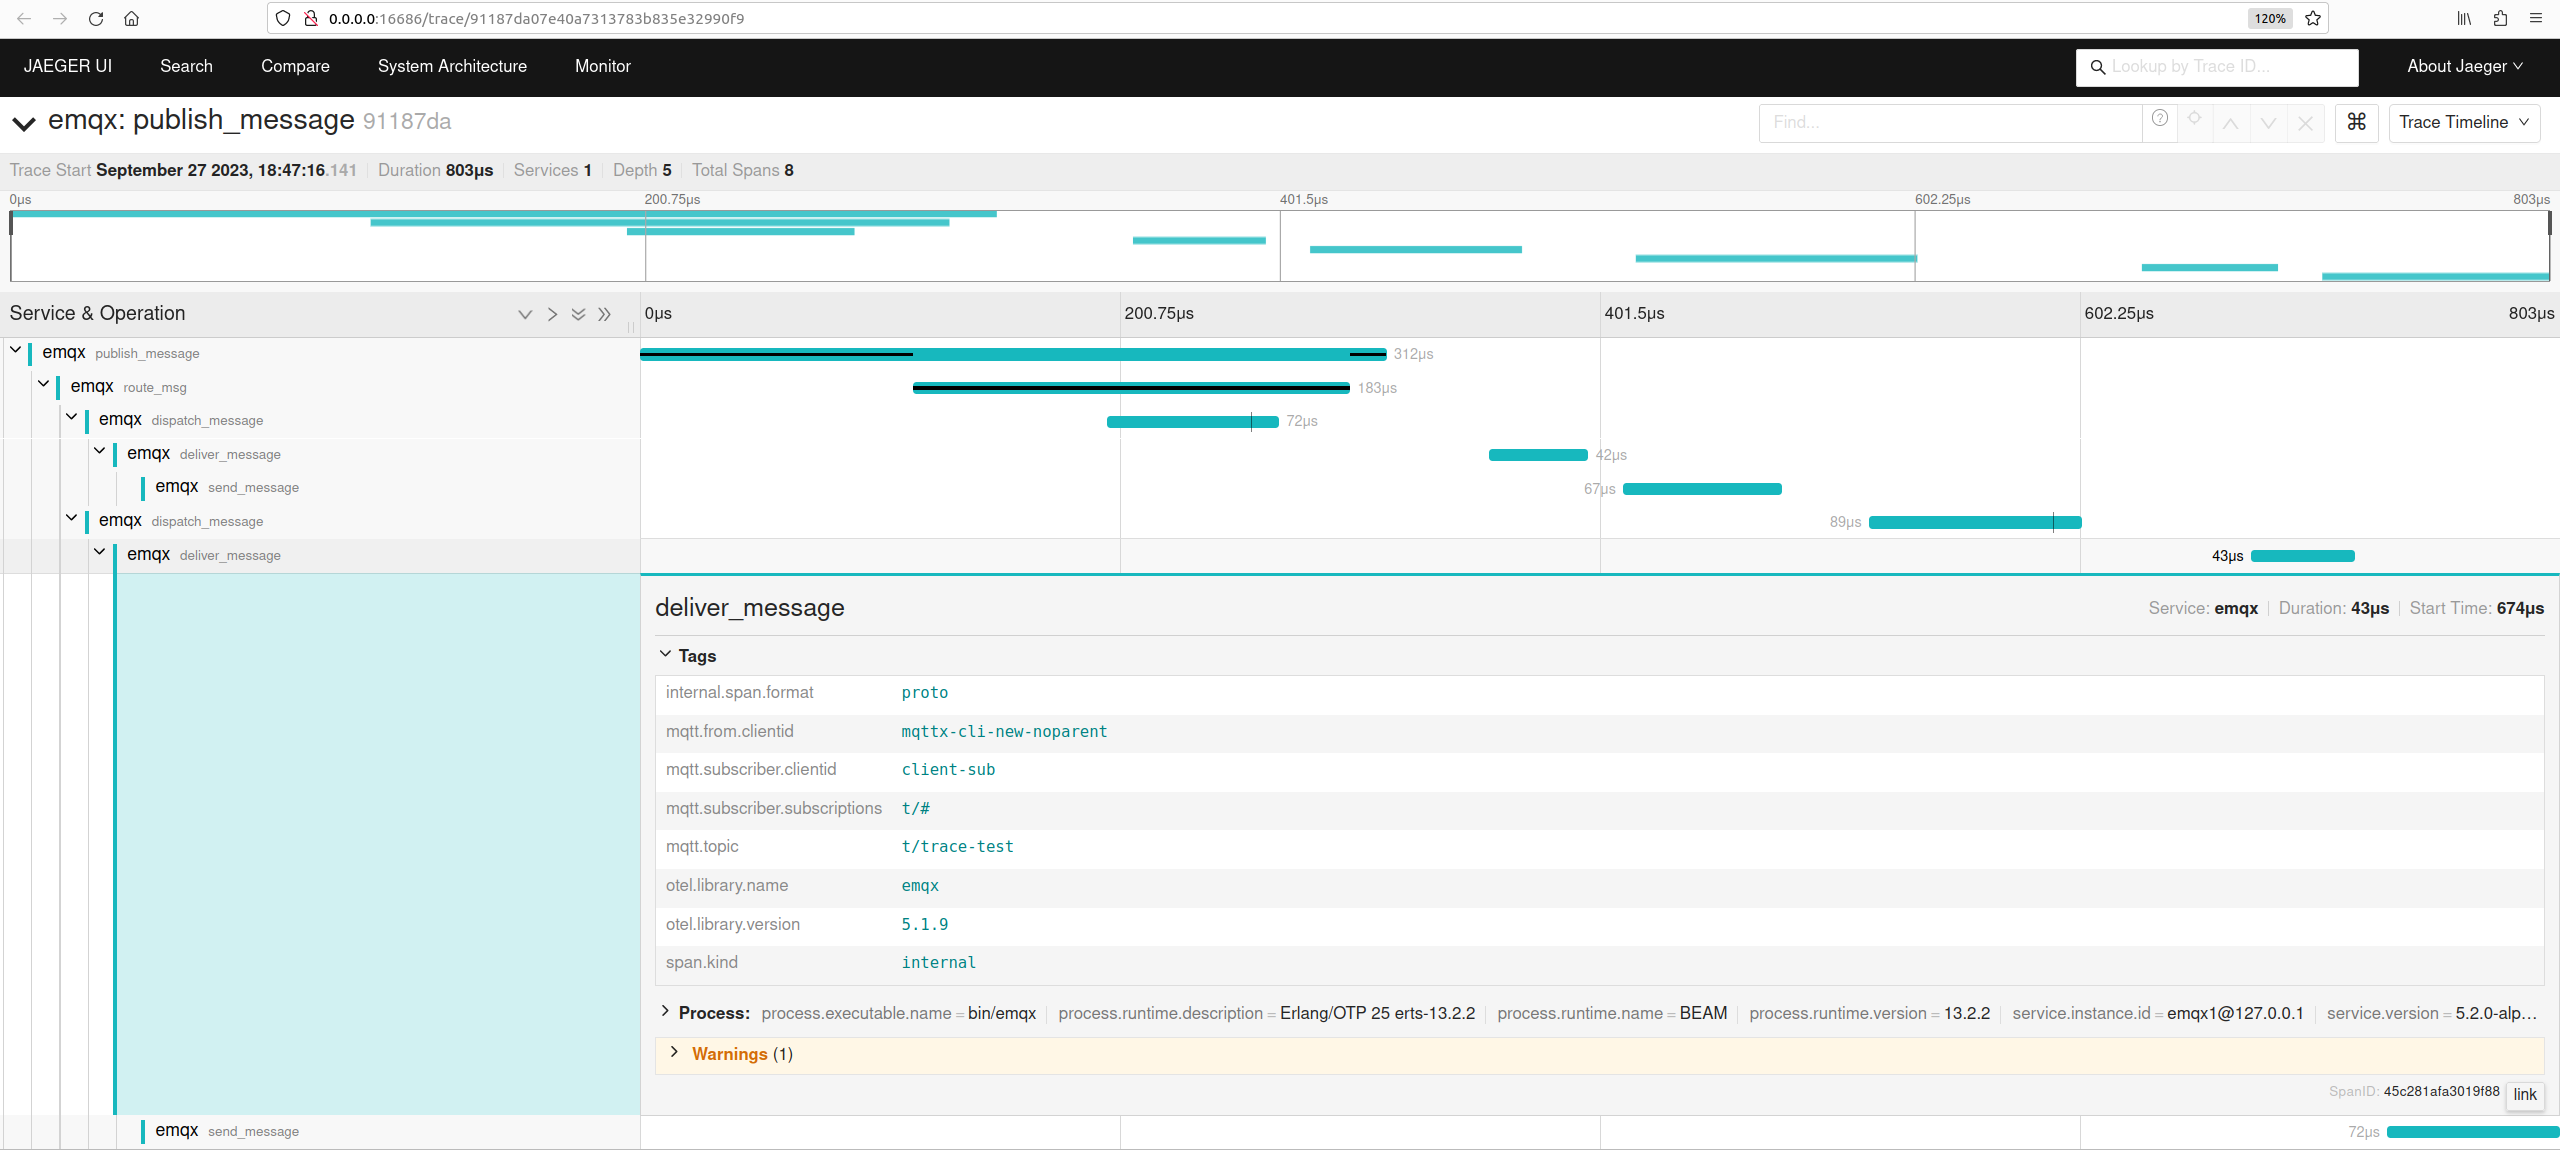
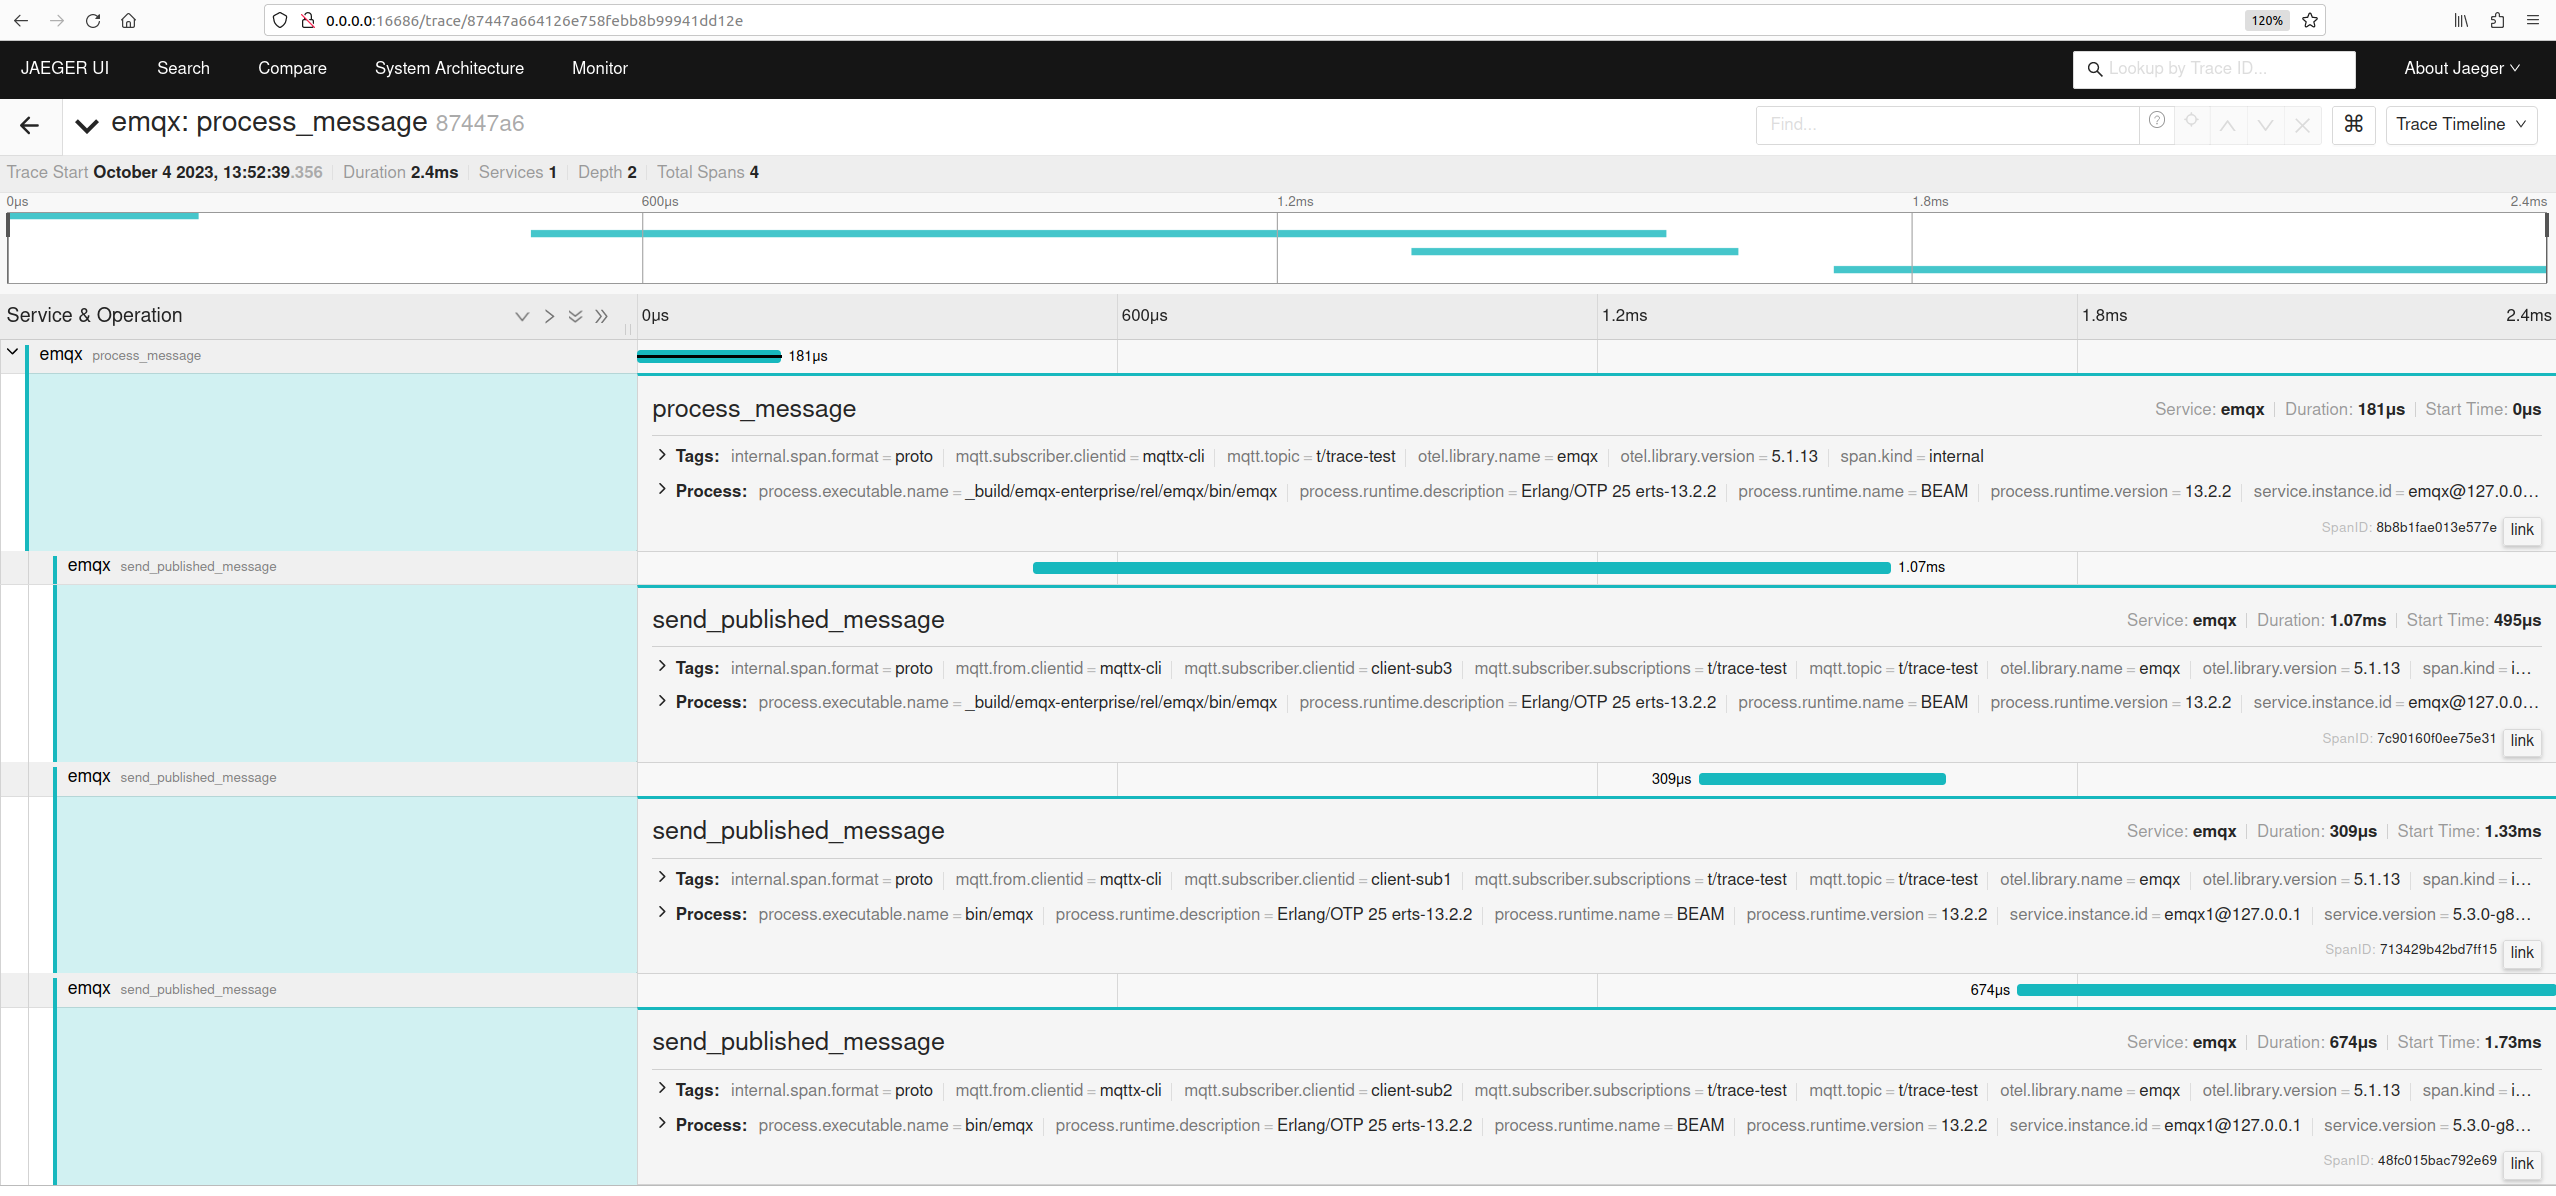
feat(0024): update OpenTelemetry EIP
- Define trace spans for the first iteration
- Describe `emqx_external_trace` behaviour

diff --git a/active/0024-opentelemetry-trace-integration.md b/active/0024-opentelemetry-trace-integration.md
@@ -1,5 +1,11 @@
 # OpenTelemetry Traces Integration
 
+## Changelog
+- 2023-09-28: Initial draft
+- 2023-10-04:
+  - Apply review remarks (define trace spans for the first iterations)
+  - Add description of `emx_external_trace` behaviour
+
 ## Abstract
 
 This document describes EMQX OpenTelemetry integration design proposal.
@@ -29,21 +35,16 @@ HTTP client after receiving the response may proceed executing some subsequent o
 Somewhat analogously, EMQX instrumented with OpenTelemetry, is expected to receive a published message, extract trace context (e.g., `traceparent`, `tracestate` User-Properties), and trace some/all processing steps under the same trace ID.
 Producer/consumer of the message may proceed tracing any subsequent operations relating them to the same trace ID.
 
-These traced steps (or spans) should include the following (**TBD**):
+These traced steps (or spans) should include the following (in the first iteration):
 
-- Publish message (traced by a node that received a published message)
+- Process a published message (traced by a node that received a published message).
+  This span starts when PUBLISH packet is received and parsed by a connection process and ends when the message is dispatched to local subscribers and/or forwarded to other nodes (forwarding is async by default).
+- Send a published message to a subscriber (traced by all nodes that have matched subscribers).
+  This span is traced by each connection process (so there will be one span per each subscriber). It will be started when 'deliver` message is received by a connection controlling process and ended when outgoing packet is serialized and sent to the socket port.
 
-  - Send message to data bridges (traced by a node that received a published message)
-  
-    NOTE: if the external data system and/or communication protocol supports OpenTelemetry distributed tracing, trace context must be also propagated to it. EMQX bridge app should implement a function to inject the trace context into its own message. For example, the web-hook bridge should add `traceparent` / `tracestate` HTTP headers, so that the receiving end can continue tracing under the same trace ID.
+NOTE: the above list may be extended/changed in the next iterations.
 
-  - Route message (traced by a node that received a published message)
-
-    - Dispatch message (traced by all nodes that have matched subscribers)
-
-      - Deliver/send message to a subscriber (traced by all nodes that have matched subscribers)
-
-NOTE: the above list may be extended/changed, for now it follows the product requirements.
+![An actual EMQX trace example as exported by POC implementation](0024-assets/trace-export-example.png)
 
 Any other processing steps/events like client connection, authentication, subscription are currently not considered for OpenTelemetry tracing (**TBD**) due to the following reasons:
 
@@ -68,18 +69,6 @@ That’s why the proposed implementation mostly relies on propagating the tracin
 API and context propagation examples (see: [full draft implementation](https://github.com/emqx/emqx/pull/11696/files#diff-a0fac912929fe4c3aa6b99a65a070f1886f75b2586beb4a7e21d8329be9aaa32)):
 
 ```erlang
--spec trace_publish(Msg, fun((Msg) -> Res)) -> Res when
-    Msg :: emqx_types:message(),
-    Res :: emqx_types:publish_result().
-trace_publish(Msg, PublishFun) ->
-    ...
-
--spec trace_dispatch(Topic, Msg, fun((Topic, Msg) -> Res)) -> Res when
-    Topic :: emqx_types:topic(),
-    Msg :: emqx_types:message(),
-    Res :: emqx_types:deliver_result().
-trace_dispatch(Topic, Msg, DispatchFun) ->
-   ...
 
 put_ctx_to_msg(OtelCtx, Msg = #message{extra = Extra}) when is_map(Extra) ->
     Msg#message{extra = Extra#{?EMQX_OTEL_CTX => OtelCtx}};
@@ -105,7 +94,70 @@ Some drawbacks of the proposed implementation should also be mentioned:
 
 - internal tracing API (as of now, implemented in `emqx_otel_trace` module) is not decoupled from the rest of the code base: each traceable action (span) is traced by a specific function and all these functions are quite specific. For example, they may extract/propagate the context differently and/or rely on the previous (parent) span. For now, it doesn’t seem feasible to create a generic trace wrapper that can trace an arbitrary function.
 
-![An actual EMQX trace example as exported by POC implementation](0024-assets/trace-export-example.png)
+#### emqx_external_trace behaviour
+
+Most (currently all) trace spans are expected to be added to the core `emqx` OTP application. However, `emqx` application mustn't depend on `opentelemetry` libs/apps.
+Moreover, we already have `emqx_opentelemetry` OTP application that implements OpenTelementry metrics, schema, configuration, etc.
+In order to keep `emqx` application decoupled from `opentelemetry` specific code, it's proposed to introduce `emqx_external_trace` module in `emqx` application.
+The module will include necessary callbacks that an actual trace backend must implement. It will also implement `register_provider/1`, `unregister_provider/1` functions, so that `opentelemetry` backend trace module can register itself as a trace provider.
+
+`apps/emqx/src/emqx_external_trace.erl`:
+```erlang
+-module(emqx_external_trace).
+
+-callback trace_process_publish(Packet, Channel, fun((Packet, Channel) -> Res)) -> Res when
+    Packet :: emqx_types:packet(),
+    Channel :: emqx_channel:channel(),
+    Res :: term().
+
+...
+
+-define(PROVIDER, {?MODULE, trace_provider}).
+
+-define(with_provider(IfRegisitered, IfNotRegisired),
+    case persistent_term:get(?PROVIDER, undefined) of
+        undefined ->
+            IfNotRegisired;
+        Provider ->
+            Provider:IfRegisitered
+    end
+).
+
+%%--------------------------------------------------------------------
+%% provider API
+%%--------------------------------------------------------------------
+
+-spec register_provider(module()) -> ok | {error, term()}.
+register_provider(Module) when is_atom(Module) ->
+    case is_valid_provider(Module) of
+        true ->
+            persistent_term:put(?PROVIDER, Module);
+        false ->
+            {error, invalid_provider}
+    end.
+
+-spec unregister_provider(module()) -> ok | {error, term()}.
+unregister_provider(Module) ->
+    case persistent_term:get(?PROVIDER, undefined) of
+        Module ->
+            persistent_term:erase(?PROVIDER),
+            ok;
+        _ ->
+            {error, not_registered}
+    end.
+
+%%--------------------------------------------------------------------
+%% trace API
+%%--------------------------------------------------------------------
+
+-spec trace_process_publish(Packet, Channel, fun((Packet, Channel) -> Res)) -> Res when
+    Packet :: emqx_types:packet(),
+    Channel :: emqx_channel:channel(),
+    Res :: term().
+trace_process_publish(Packet, Channel, ProcessFun) ->
+    ?with_provider(?FUNCTION_NAME(Packet, Channel, ProcessFun), ProcessFun(Packet, Channel)).
+
+```
 
 ### External trace context propagation
 
@@ -128,7 +180,7 @@ However, if no trace context received but a message still should be traced, one 
 - create internal trace context and trace only internal EMQX events and do not propagate the context to receivers and/or external data systems (if bridges are set up)
 - create internal trace context and propagate it to receivers and/or external data systems.
 
-The option can be made configurable and should probably default to not propagating internally created trace context (**TBD**). 
+The option can be made configurable and should probably default to not propagating internally created trace context (**TBD**).
 
 ### Attributes (TBD)
 
@@ -196,7 +248,7 @@ opentelemetry {
     filters {}
     sampling {}
     # whether to propagate trace context
-    # if it was internally created by EMQX and not received in a publishedd message:
+    # if it was internally created by EMQX and not received in a published message:
     downstream_context_propagation = false
     # select a list of attributes to be added to trace spans from the pre-defined list
     attributes = []
